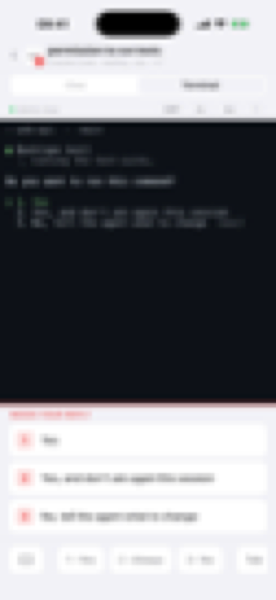
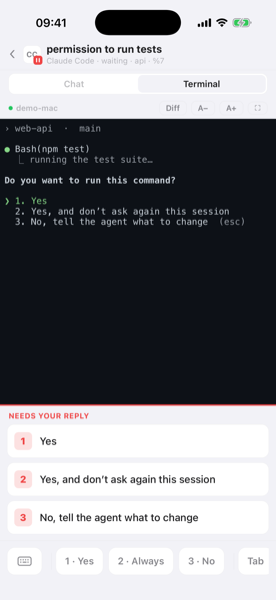
docs: solidify screenshot regeneration into one command
The generic-screenshot workflow was ad-hoc. Capture it as a committed, repeatable
tool under docs/assets/screenshots/:

- mock-serve.js — a throwaway HTTP server answering the /api/* endpoints the iOS
  app hits with GENERIC fixtures (edit them to change what the shots show); never
  touches the real tmux.
- cli/menubar/mobile-hero.html — self-contained hero templates rendered by headless
  Chrome (menubar version injected from the latest git tag; mobile frames a real sim
  capture). No screen-capture of the real menu-bar app (TCC-blocked), so the hero
  always reflects the CURRENT design.
- regenerate.sh — one command: mock serve → the app's GTMUX_SHOTS e2e harness for the
  mobile shots → render + place all five images under docs/assets/. GTMUX_SKIP_CAPTURE=1
  re-renders just the heroes (no simulator needed).
- README.md — prerequisites + usage.

Also makes the Detail screenshot capture the Terminal tab permanently (the live
colored pane), and re-encodes screenshot-detail.png through the script's single
resize path so future runs reproduce it byte-for-byte.

diff --git a/docs/assets/screenshots/mock-serve.js b/docs/assets/screenshots/mock-serve.js
@@ -1,0 +1,80 @@
+// Generic mock of `gtmux serve` — just enough endpoints for the iOS app to render
+// the radar, an agent's live pane (Detail → Terminal), and the connection page,
+// with fully GENERIC data (no real session names, paths, cost, or server name).
+// Used ONLY to re-capture clean README/docs screenshots from the simulator (see
+// regenerate.sh). Edit the fixtures below to change what the screenshots show.
+const http = require('http');
+
+const PORT = Number(process.env.MOCK_PORT || 8799);
+const now = Math.floor(Date.now() / 1000);
+
+// Radar rows — neutral project names + tasks, a mix of states and agents.
+const AGENTS = [
+  {pane_id: '%7', session: 'api', window: '0', pane: '0', loc: 'api:0.0', agent: 'Claude Code',
+   status: 'waiting', task: 'permission to run tests', latest: false, activity: false,
+   source: 'tmux', project: 'api', branch: 'main', since: now - 40},
+  {pane_id: '%11', session: 'web', window: '0', pane: '0', loc: 'web:0.0', agent: 'Claude Code',
+   status: 'working', task: 'refactor auth middleware', latest: false, activity: true,
+   source: 'tmux', project: 'web', branch: 'main', since: now - 90},
+  {pane_id: '%3', session: 'worker', window: '0', pane: '0', loc: 'worker:0.0', agent: 'Codex',
+   status: 'working', task: 'add retry backoff', latest: false, activity: true,
+   source: 'tmux', project: 'worker', branch: 'jobs', since: now - 130},
+  {pane_id: '%8', session: 'docs', window: '0', pane: '0', loc: 'docs:0.0', agent: 'Claude Code',
+   status: 'idle', task: 'update API reference', latest: true, activity: false,
+   source: 'tmux', project: 'docs', branch: 'main', since: now - 6 * 60},
+  {pane_id: '%1', session: 'cli', window: '0', pane: '0', loc: 'cli:0.0', agent: 'Gemini',
+   status: 'idle', task: 'fix flaky test', latest: false, activity: false,
+   source: 'tmux', project: 'cli', branch: 'main', since: now - 22 * 60},
+];
+
+// A generic Claude Code "permission" screen for the waiting pane (%7) — what you
+// jump to. No real paths/content. ANSI colors so the mirror renders in color.
+const PANE_TEXT = [
+  '\x1b[2m› web-api  ·  main\x1b[0m',
+  '',
+  '\x1b[38;5;114m●\x1b[0m Bash(npm test)',
+  '  \x1b[2m⎿ running the test suite…\x1b[0m',
+  '',
+  '\x1b[1mDo you want to run this command?\x1b[0m',
+  '',
+  '\x1b[38;5;114m❯ 1. Yes\x1b[0m',
+  '  2. Yes, and don’t ask again this session',
+  '  3. No, tell the agent what to change  \x1b[2m(esc)\x1b[0m',
+  '',
+].join('\r\n');
+
+const THEME = {
+  source: 'mock', background: '#0d1117', foreground: '#c9d1d9', cursor: '#06B6D4',
+  palette: ['#0d1117', '#ff7b72', '#3fb950', '#d29922', '#58a6ff', '#bc8cff', '#39c5cf', '#b1bac4',
+    '#6e7681', '#ffa198', '#56d364', '#e3b341', '#79c0ff', '#d2a8ff', '#56d4dd', '#f0f6fc'],
+  fontFamily: 'Menlo', fontSize: 13,
+};
+
+const OPTIONS = {options: [
+  {n: 1, label: 'Yes'},
+  {n: 2, label: 'Yes, and don’t ask again this session'},
+  {n: 3, label: 'No, tell the agent what to change'},
+]};
+
+function json(res, code, body) {
+  const b = JSON.stringify(body);
+  res.writeHead(code, {'Content-Type': 'application/json', 'Content-Length': Buffer.byteLength(b)});
+  res.end(b);
+}
+
+const server = http.createServer((req, res) => {
+  const u = new URL(req.url, 'http://x');
+  const p = u.pathname;
+  if (p === '/api/health') return json(res, 200, {service: 'gtmux', status: 'ok'});
+  if (p === '/api/agents') return json(res, 200, AGENTS);
+  if (p === '/api/pane') return json(res, 200, {id: u.searchParams.get('id') || '%7', text: PANE_TEXT,
+    cursor: {x: 0, up: 0, visible: false}});
+  if (p === '/api/theme') return json(res, 200, THEME);
+  if (p === '/api/options') return json(res, 200, OPTIONS);
+  if (p === '/api/transcript') return json(res, 200, []);
+  if (p === '/api/diff') return json(res, 200, {diff: ''});
+  if (p === '/api/icon') { res.writeHead(404); return res.end(); } // → neutral single-letter mark
+  return json(res, 200, {status: 'ok'});
+});
+
+server.listen(PORT, '127.0.0.1', () => console.log(`mock gtmux serve on http://127.0.0.1:${PORT}`));

diff --git a/docs/assets/screenshots/menubar-hero.html b/docs/assets/screenshots/menubar-hero.html
@@ -1,0 +1,76 @@
+<!doctype html><html><head><meta charset="utf-8"><style>
+  * { margin:0; box-sizing:border-box; }
+  html,body { width:612px; height:760px; }
+  body { background:linear-gradient(135deg,#eef1f4,#e2e6ea);
+    font-family:-apple-system,'SF Pro Text',Helvetica,Arial,sans-serif; overflow:hidden; }
+  .label { text-align:center; padding-top:46px; font-size:26px; font-weight:800; color:#17181a; letter-spacing:-.4px; }
+  .dot { display:inline-block; width:11px; height:11px; border-radius:50%; background:#EF4444; vertical-align:middle; margin-right:11px; position:relative; top:-2px; }
+  /* menu-bar strip with the status item */
+  .strip { position:absolute; top:150px; right:44px; background:#fff; border-radius:8px; padding:7px 12px;
+    box-shadow:0 4px 14px rgba(0,0,0,.10); font-size:13px; color:#3a3f47; display:flex; align-items:center; gap:9px; }
+  .strip .kbd{ color:#6b7280; font-weight:600; } .strip .sq{ width:9px;height:9px;border-radius:2px;background:#EF4444;display:inline-block;}
+  .pop { position:absolute; left:150px; top:196px; width:312px; background:#1c1f26; border-radius:15px;
+    box-shadow:0 26px 64px -12px rgba(15,18,26,.42),0 8px 20px rgba(0,0,0,.22); overflow:hidden; color:#e7e9ee; }
+  .head { padding:14px 16px 10px; }
+  .h1 { display:flex; align-items:center; font-size:14px; font-weight:700; }
+  .h1 .g6{ width:15px;height:15px;border-radius:4px;background:linear-gradient(135deg,#3ac,#29b);margin-right:8px;}
+  .h1 .sp{ flex:1; } .h1 .mut{ color:#8890a0; font-weight:500; font-size:12px; }
+  .sub { color:#8890a0; font-size:12px; margin-top:3px; }
+  .sec { color:#8890a0; font-size:10.5px; font-weight:700; letter-spacing:.6px; padding:9px 16px 5px; text-transform:uppercase; display:flex; align-items:center; gap:7px;}
+  .sec.red{ color:#f0605f; } .cnt{ background:#2b2f38; border-radius:9px; padding:0 7px; font-size:10px; color:#c3c8d2; }
+  .row { display:flex; align-items:center; padding:7px 16px; gap:11px; }
+  .row.hot{ background:rgba(240,96,95,.11); }
+  .av { width:30px;height:30px;border-radius:7px;background:#2a2e37; color:#aeb4c0; font-size:11px; font-weight:700; display:flex; align-items:center; justify-content:center; position:relative; flex:0 0 auto;}
+  .badge{ position:absolute; right:-3px; bottom:-3px; width:14px;height:14px;border-radius:50%; display:flex;align-items:center;justify-content:center; font-size:8px;}
+  .b-wait{ background:#EF4444;} .b-work{ background:#06B6D4;} .b-idle{ background:#22C55E; color:#0b3d1e; font-weight:900; font-size:9px;}
+  .b-wait .p{ width:6px;height:6px; border-left:2px solid #fff;border-right:2px solid #fff; }
+  .col{ flex:1; min-width:0; } .t1{ font-size:12.5px; font-weight:600; white-space:nowrap; overflow:hidden; text-overflow:ellipsis; }
+  .t1 .tag{ font-weight:600; font-size:9.5px; color:#7f8798; background:#262a33; border-radius:4px; padding:1px 5px; margin-left:6px;}
+  .t1 .latest{ color:#22C55E; background:rgba(34,197,94,.14); }
+  .t2{ font-size:11px; color:#8890a0; margin-top:1px; }
+  .rt{ color:#7f8798; font-size:11px; flex:0 0 auto; } .chev{ color:#5a6070; font-size:12px; margin-left:2px;}
+  .foot{ display:flex; align-items:center; padding:10px 16px 12px; border-top:1px solid #262a33; margin-top:5px; font-size:11px; color:#8890a0; }
+  .foot .sp{ flex:1; }
+</style></head><body>
+  <div class="label"><span class="dot"></span>Menu bar</div>
+  <div class="strip"><span class="kbd">⌘⌥G</span><span class="sq"></span><span>2</span></div>
+  <div class="pop">
+    <div class="head">
+      <div class="h1"><span class="g6"></span>gtmux<span class="sp"></span><span class="mut">▾ Waiting only&nbsp;&nbsp;⌕</span></div>
+      <div class="sub">5 agents · 1 waiting · 2 working · 2 idle</div>
+    </div>
+
+    <div class="sec red">NEEDS YOU <span class="cnt">1</span></div>
+    <div class="row hot">
+      <div class="av">CC<span class="badge b-wait"><span class="p"></span></span></div>
+      <div class="col"><div class="t1">permission to run tests</div><div class="t2">api · %7 · now</div></div>
+      <span class="chev">↵</span>
+    </div>
+
+    <div class="sec">WORKING <span class="cnt">2</span></div>
+    <div class="row">
+      <div class="av">CC<span class="badge b-work"></span></div>
+      <div class="col"><div class="t1">refactor auth middleware</div><div class="t2">web · %11</div></div>
+      <span class="rt">1m</span><span class="chev">›</span>
+    </div>
+    <div class="row">
+      <div class="av">Cx<span class="badge b-work"></span></div>
+      <div class="col"><div class="t1">add retry backoff</div><div class="t2">worker · %3</div></div>
+      <span class="rt">3m</span><span class="chev">›</span>
+    </div>
+
+    <div class="sec">IDLE <span class="cnt">2</span></div>
+    <div class="row">
+      <div class="av">CC<span class="badge b-idle">✓</span></div>
+      <div class="col"><div class="t1">update API reference <span class="tag latest">latest</span></div><div class="t2">docs · %8</div></div>
+      <span class="rt">6m</span><span class="chev">›</span>
+    </div>
+    <div class="row">
+      <div class="av">G<span class="badge b-idle">✓</span></div>
+      <div class="col"><div class="t1">fix flaky test</div><div class="t2">cli · %1</div></div>
+      <span class="rt">22m</span><span class="chev">›</span>
+    </div>
+
+    <div class="foot">⚙ Preferences<span class="sp"></span>gtmux __VERSION__</div>
+  </div>
+</body></html>

diff --git a/docs/assets/screenshots/cli-hero.html b/docs/assets/screenshots/cli-hero.html
@@ -1,0 +1,31 @@
+<!doctype html><html><head><meta charset="utf-8"><style>
+  * { margin:0; box-sizing:border-box; }
+  html,body { width:612px; height:760px; }
+  body { background:linear-gradient(135deg,#eef1f4,#e2e6ea);
+    font-family:-apple-system,'SF Pro Text',Helvetica,Arial,sans-serif; overflow:hidden; }
+  .label { text-align:center; padding-top:46px; font-size:26px; font-weight:800; color:#17181a; letter-spacing:-.4px; }
+  .dot { display:inline-block; width:11px; height:11px; border-radius:50%; background:#06B6D4; vertical-align:middle; margin-right:11px; position:relative; top:-2px; }
+  .card { position:absolute; left:28px; right:28px; top:250px; background:#16181d; border-radius:13px;
+    box-shadow:0 24px 60px -12px rgba(20,24,33,.34),0 6px 16px rgba(0,0,0,.14); overflow:hidden; }
+  .bar { height:42px; display:flex; align-items:center; padding:0 16px; border-bottom:1px solid #24272e; }
+  .tl { width:12px; height:12px; border-radius:50%; margin-right:8px; }
+  .title { flex:1; text-align:center; color:#8b929e; font-size:12.5px; font-weight:600; margin-left:-52px; }
+  pre { margin:0; padding:22px 22px 26px; color:#c8ccd4; font:12px/1.9 'SF Mono',Menlo,monospace; white-space:pre; }
+  .g{color:#6b7280;} .r{color:#f0605f;} .c{color:#25c3d6;} .n{color:#3fce7a;} .w{color:#e6e8ec;font-weight:600;}
+</style></head><body>
+  <div class="label"><span class="dot"></span>CLI</div>
+  <div class="card">
+    <div class="bar">
+      <span class="tl" style="background:#ff5f57"></span><span class="tl" style="background:#febc2e"></span><span class="tl" style="background:#28c840"></span>
+      <span class="title">gtmux — agents</span>
+    </div>
+<pre><span class="w">gtmux agents</span> <span class="g">— 6 agents · 1 waiting · 1 working · 4 idle</span>
+
+<span class="r">⏸ waiting</span>  <span class="w">Claude Code</span>  api:0.0     permission to run tests   <span class="g">%7</span>
+<span class="c">⠿ working</span>  <span class="w">Claude Code</span>  web:0.0     refactor auth middleware  <span class="g">%11</span>
+<span class="n">✳ idle</span>     <span class="w">Claude Code</span>  worker:0.0  add retry backoff   <span class="g">%8</span>  <span class="n">✓ latest</span>
+<span class="n">✳ idle</span>     <span class="w">Codex</span>        docs:0.0    —                   <span class="g">%1</span>
+
+<span class="g">jump: gtmux focus %7</span></pre>
+  </div>
+</body></html>

diff --git a/docs/assets/screenshots/mobile-hero.html b/docs/assets/screenshots/mobile-hero.html
@@ -1,0 +1,16 @@
+<!doctype html><html><head><meta charset="utf-8"><style>
+  * { margin:0; box-sizing:border-box; }
+  html,body { width:612px; height:760px; }
+  body { background:linear-gradient(135deg,#eef1f4,#e2e6ea);
+    font-family:-apple-system,'SF Pro Text',Helvetica,Arial,sans-serif; overflow:hidden; }
+  .label { text-align:center; padding-top:46px; font-size:26px; font-weight:800; color:#17181a; letter-spacing:-.4px; }
+  .dot { display:inline-block; width:11px; height:11px; border-radius:50%; background:#22C55E; vertical-align:middle; margin-right:11px; position:relative; top:-2px; }
+  .phone { position:absolute; left:50%; top:120px; transform:translateX(-50%);
+    width:300px; padding:11px; background:#0a0a0a; border-radius:44px;
+    box-shadow:0 26px 64px -14px rgba(15,18,26,.44),0 8px 20px rgba(0,0,0,.22); }
+  .screen { border-radius:34px; overflow:hidden; background:#f4f5f7; aspect-ratio:1206/2000; }
+  .screen img { display:block; width:100%; height:100%; object-fit:cover; object-position:top; }
+</style></head><body>
+  <div class="label"><span class="dot"></span>Mobile</div>
+  <div class="phone"><div class="screen"><img src="radar-hero.png"></div></div>
+</body></html>

diff --git a/mobileapp/e2e/__tests__/screenshots.test.ts b/mobileapp/e2e/__tests__/screenshots.test.ts
@@ -50,9 +50,11 @@ gated('readme screenshots', () => {
     await new Promise(r => setTimeout(r, 1200)); // let icons + rows settle
     shot('radar');
 
-    // Detail (the live colored pane)
+    // Detail — switch to the Terminal tab so the shot shows the live screen in
+    // color (Chat is empty without a session log).
     if (!(await openFirstAgentDetail())) throw new Error('could not open an agent Detail');
-    await new Promise(r => setTimeout(r, 1500)); // let the pane content load
+    await driver.$(`~${TestIds.detail.modeTerminal}`).click();
+    await new Promise(r => setTimeout(r, 1800)); // let the pane content render
     shot('detail');
     await driver.$(`~${TestIds.detail.back}`).click();
     await radar.waitForDisplayed({timeout: 10_000});

diff --git a/docs/assets/screenshots/README.md b/docs/assets/screenshots/README.md
@@ -1,0 +1,48 @@
+# Regenerating the docs screenshots
+
+One command re-captures every user-facing screenshot with **generic** data — no
+real session names, file paths, server name, or token cost:
+
+```sh
+bash docs/assets/screenshots/regenerate.sh
+```
+
+It produces, under `docs/assets/`:
+
+| Image | Surface | How it's made |
+|---|---|---|
+| `surface-cli.png` | README hero — CLI | rendered from `cli-hero.html` |
+| `surface-menubar.png` | README hero — menu bar | rendered from `menubar-hero.html` (version injected from the latest git tag) |
+| `surface-mobile.png` | README hero — mobile | a **real** simulator radar capture framed by `mobile-hero.html` |
+| `screenshot-detail.png` | `docs/phone.md` | real simulator capture (Detail → Terminal) |
+| `screenshot-servers.png` | `docs/phone.md` | real simulator capture (connection page) |
+
+## How it works
+
+- **`mock-serve.js`** — a throwaway HTTP server that answers the handful of
+  `/api/*` endpoints the iOS app hits (`health`, `agents`, `pane`, `theme`,
+  `options`, …) with the generic fixtures defined at the top of the file. Edit
+  those to change what the screenshots show. It never touches your real tmux.
+- The mobile shots come from the app's own **`GTMUX_SHOTS` e2e harness**
+  (`mobileapp/e2e/__tests__/screenshots.test.ts`) pointed at the mock, with a
+  generic server name (`GTMUX_SHOTS_NAME`, default `demo-mac`).
+- The three **hero** images are self-contained HTML rendered to PNG by headless
+  Chrome (612×760), then downscaled. No screen capture of the real menu-bar app
+  (macOS blocks that under TCC) — so the menu-bar hero always reflects the
+  *current* design here, not whatever happens to be running.
+
+## Prerequisites (mobile capture only)
+
+- A **booted iOS simulator** with the app installed. First time / after app
+  changes: `cd mobileapp && npm run e2e:build` (or pass `GTMUX_SHOTS_BUILD=1`).
+- Appium's xcuitest driver (one-time): `cd mobileapp && npx appium driver install xcuitest`.
+- Hardware keyboard off on the sim (see `mobileapp/e2e/README.md`).
+- A first WebDriverAgent build can take a few minutes; the harness waits.
+
+Only need the hero images (no simulator)? Reuse the last captures:
+
+```sh
+GTMUX_SKIP_CAPTURE=1 bash docs/assets/screenshots/regenerate.sh
+```
+
+After running, review with `git status docs/assets/` and commit the PNGs.